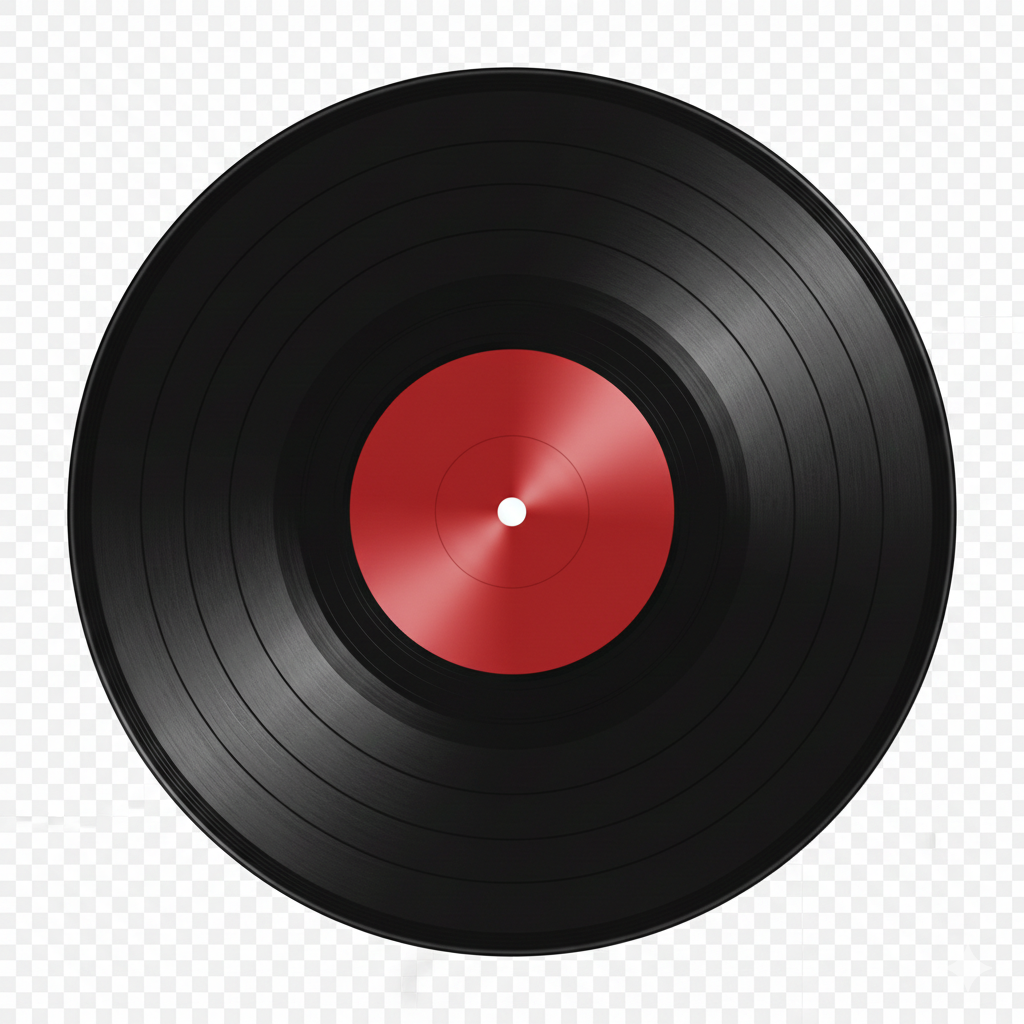
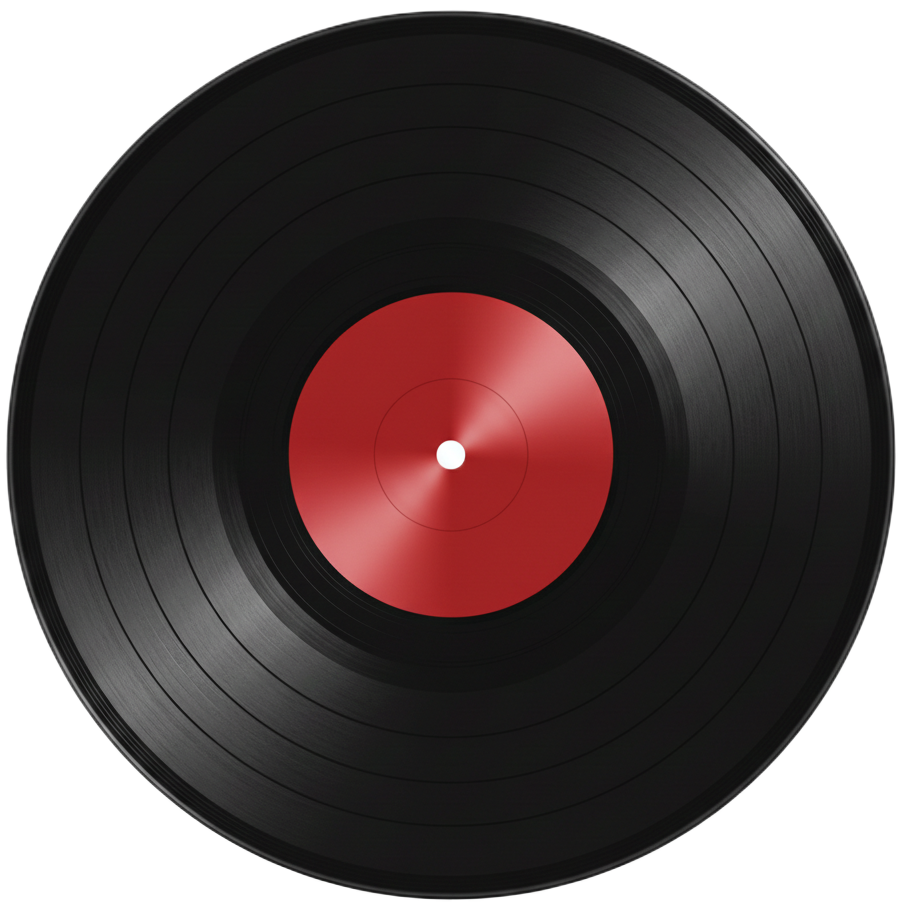
update

diff --git a/style.css b/style.css
@@ -42,8 +42,9 @@ body {
 .vinyl {
     width: 380px;
     height: 380px;
-    /* background: radial-gradient(circle, #333 2%, var(--vinyl-dark) 30%, #000 100%); */
     background-image: url(lp.png);
+    background-position: center;
+    background-size: 100%;
     border-radius: 50%;
     position: relative;
     display: flex;
@@ -51,14 +52,6 @@ body {
     align-items: center;
 }
 
-.vinyl-label {
-    width: 130px;
-    height: 130px;
-    background: #fff;
-    border-radius: 50%;
-    background-image: url('https://via.placeholder.com/150?text=No+Disc');
-    background-size: cover;
-}
 
 .spinning {
     animation: rotateVinyl 1.8s linear infinite;

diff --git a/index.html b/index.html
@@ -9,9 +9,7 @@
 <body>
     <div class="player-container">
         <div class="turntable">
-            <div id="vinyl" class="vinyl">
-                <div class="vinyl-label"></div>
-            </div>
+            <div id="vinyl" class="vinyl"></div>
             <div id="tonearm" class="tonearm">
                 <div class="arm-base"></div>
                 <div class="needle"></div>
